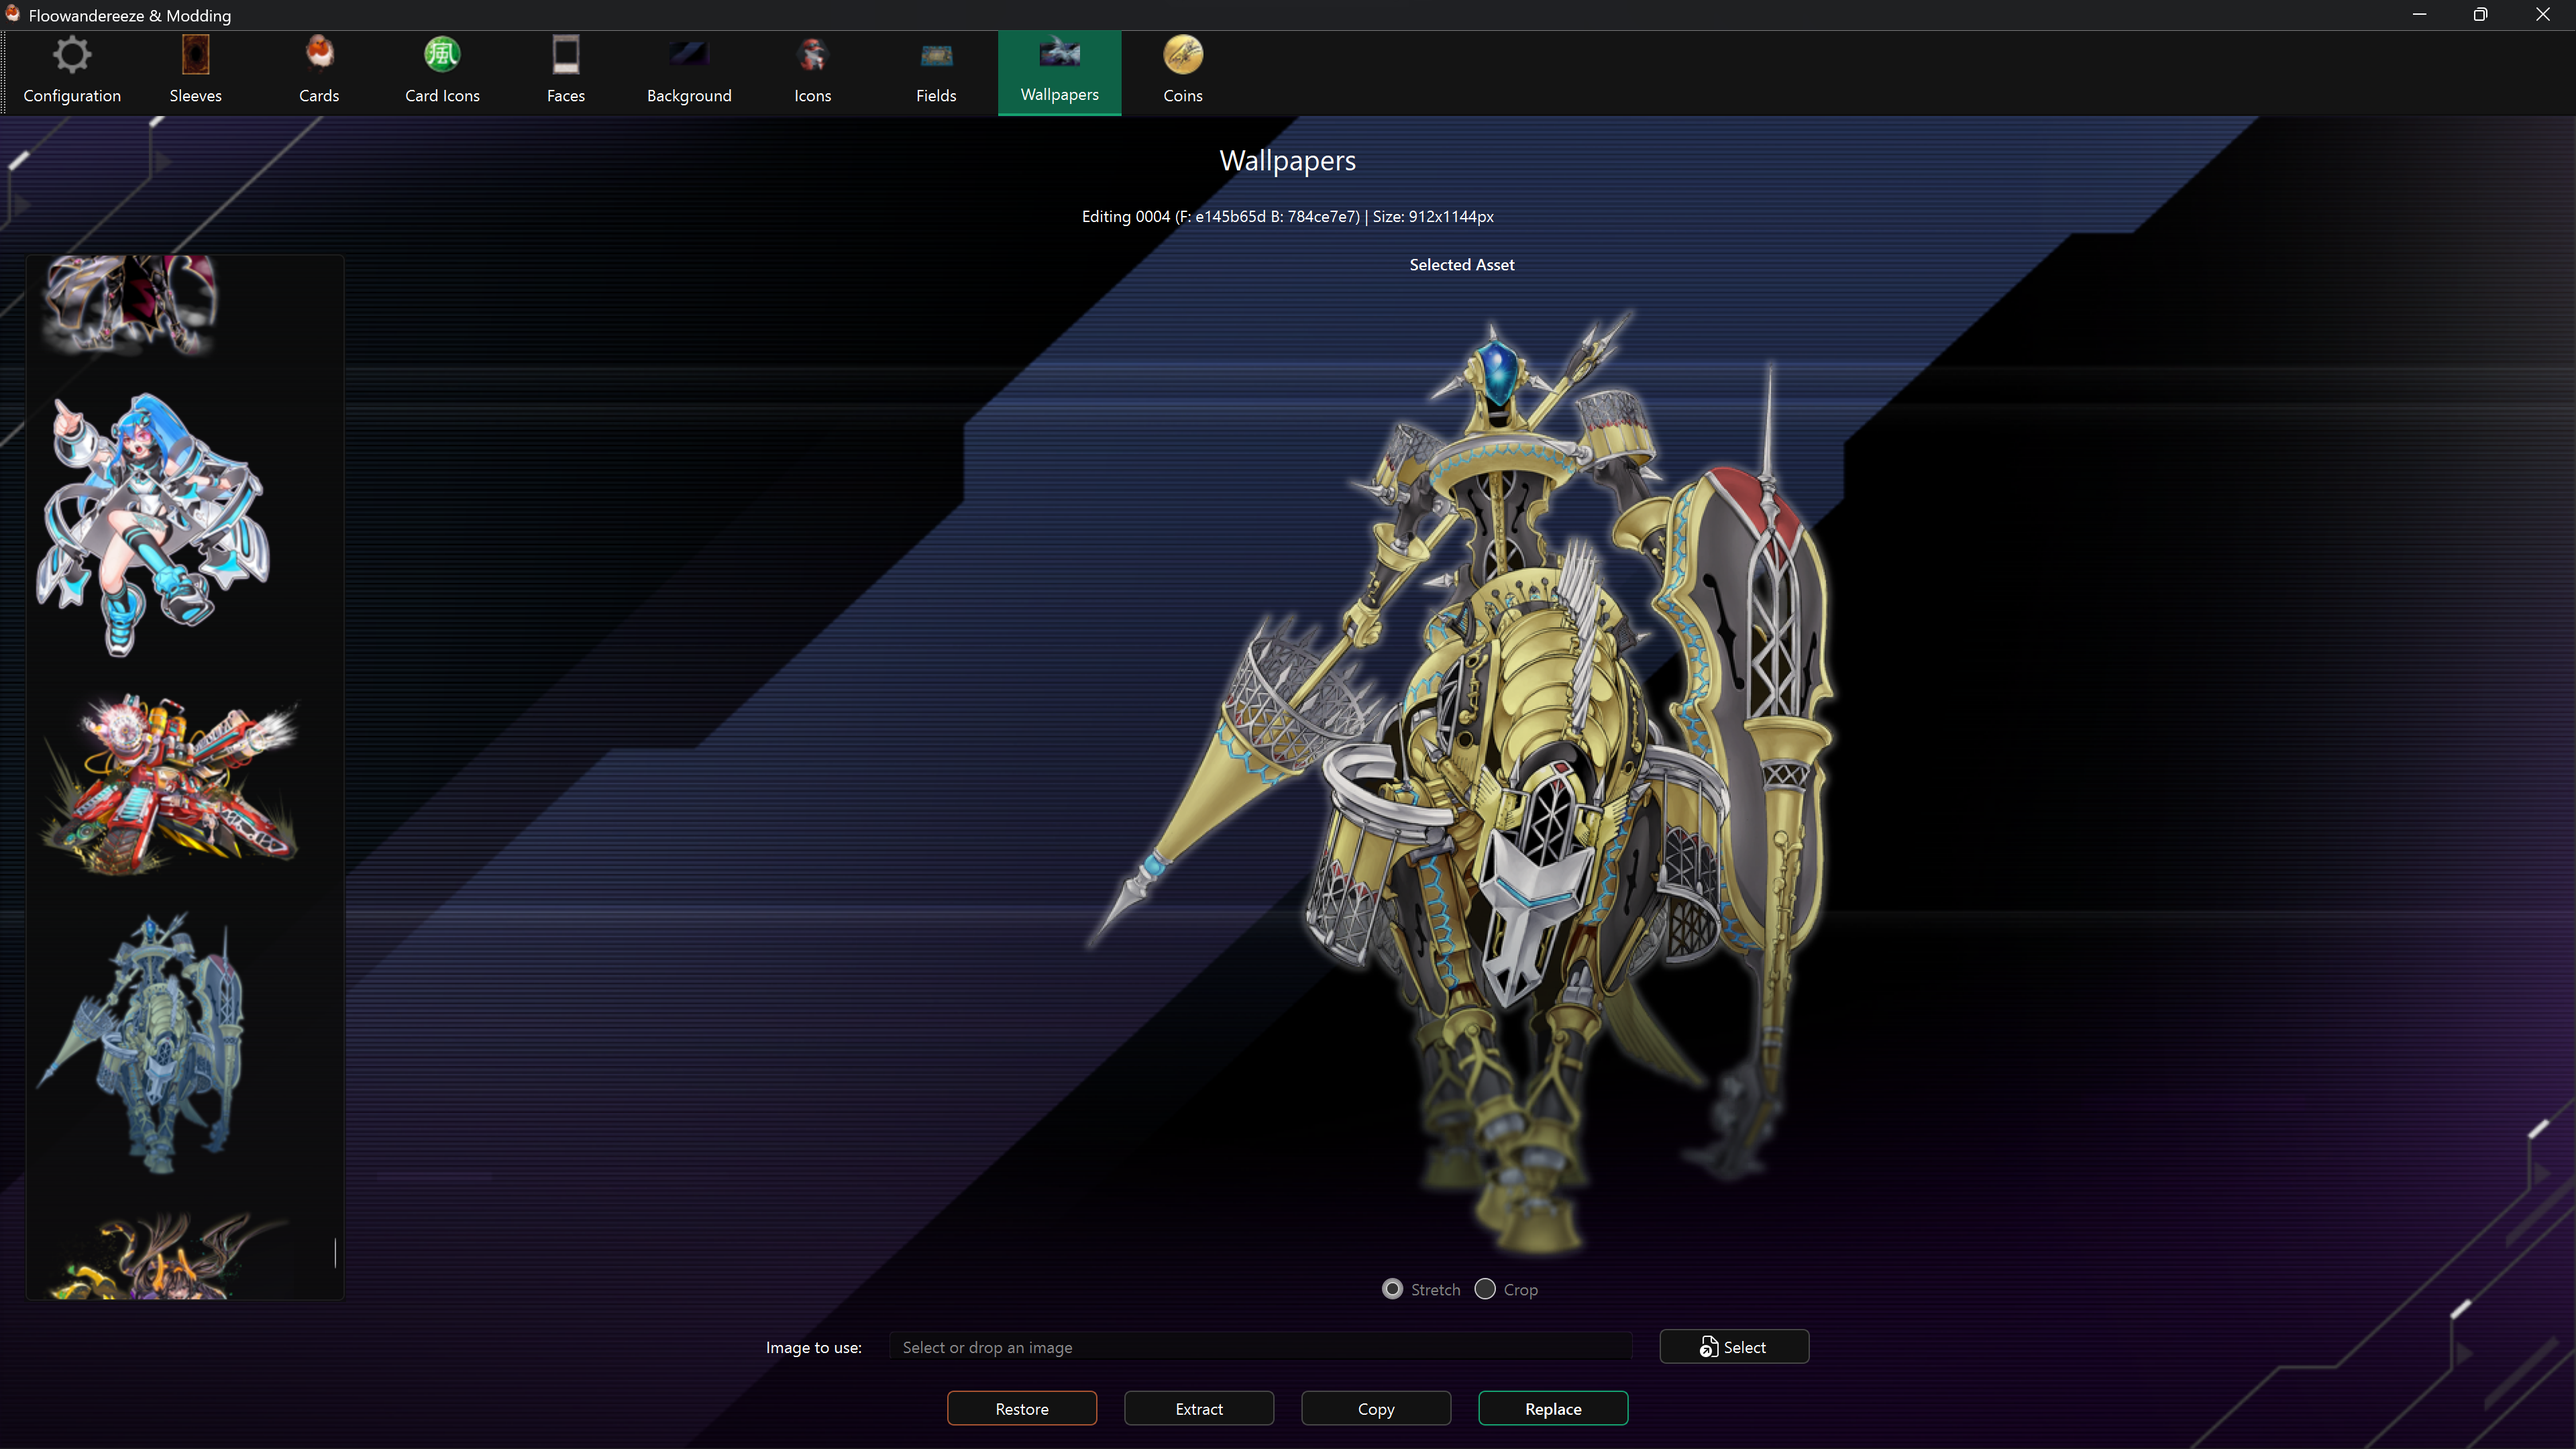
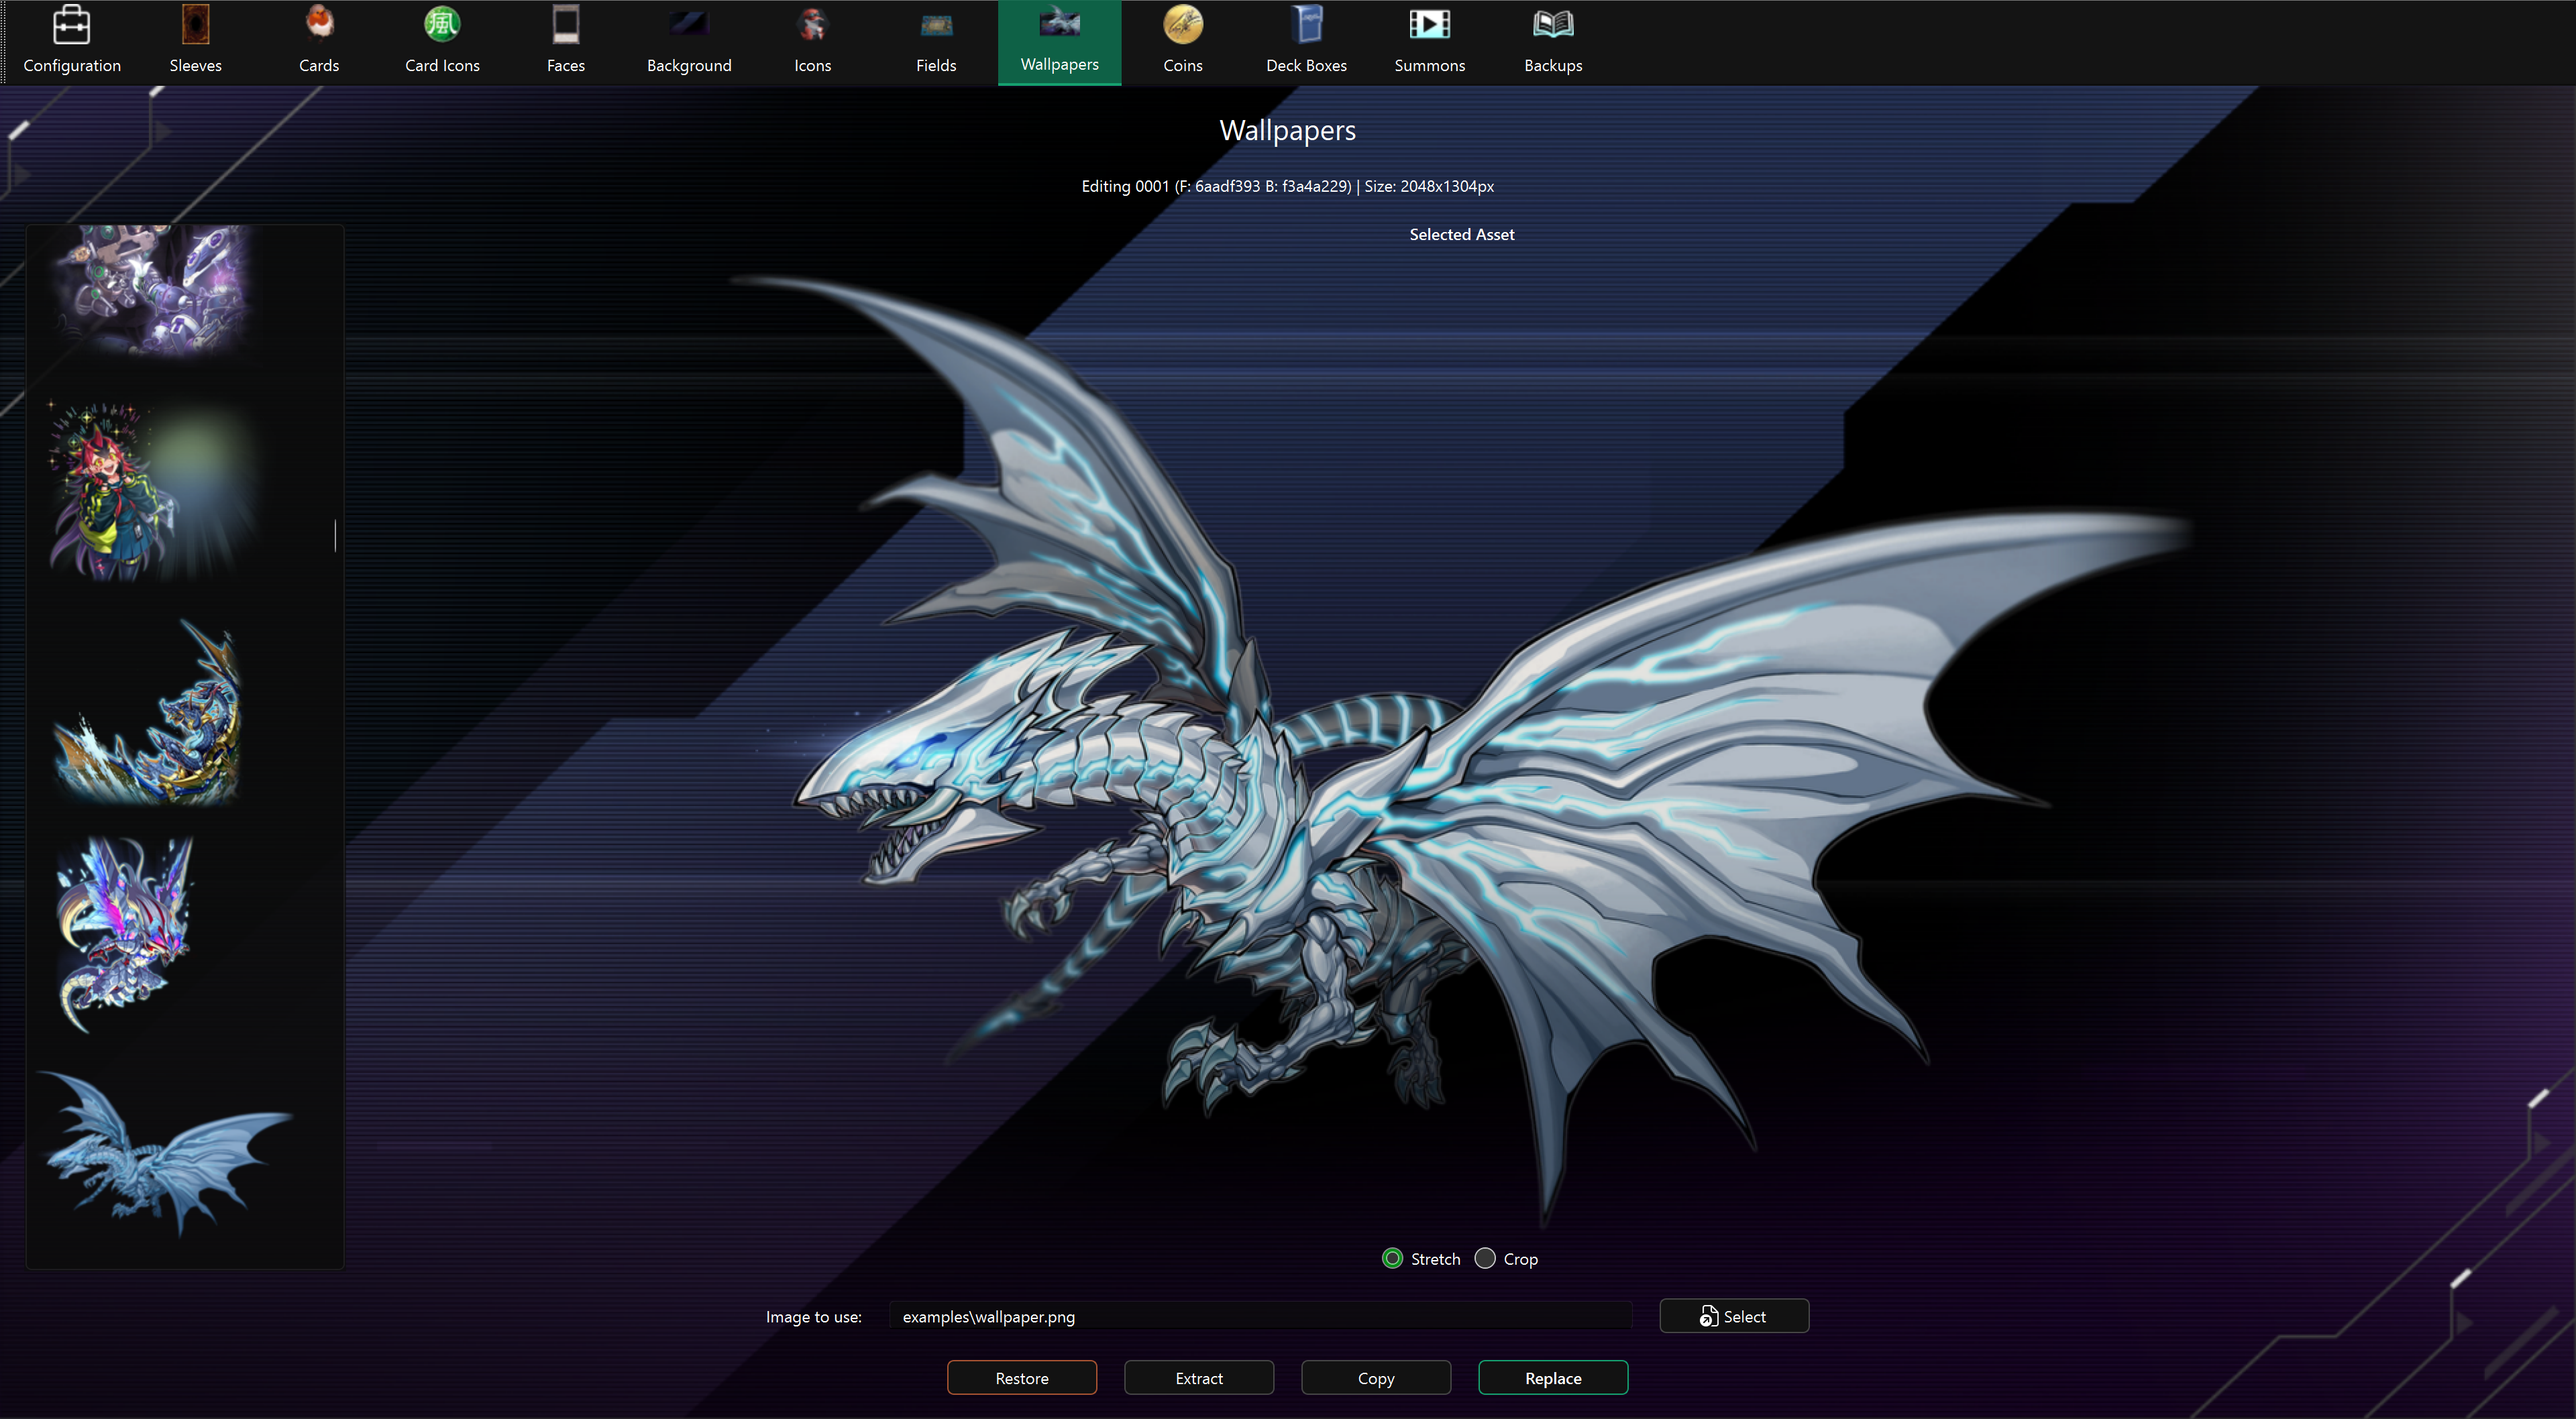
fix(wallpaper): preserve selector width beside large previews

diff --git a/pages/wallpaper.py b/pages/wallpaper.py
@@ -30,6 +30,7 @@ class Wallpaper(QtWidgets.QWidget, Ui_Wallpaper):
             QPixmap.fromImage(QImage(":ui/images/wallpaper_preview.png"))
         )
         self.main_content.addWidget(self.preview)
+        self._configure_asset_layout()
         configure_editor_chrome(
             self,
             current_widget=self.preview,
@@ -54,6 +55,20 @@ class Wallpaper(QtWidgets.QWidget, Ui_Wallpaper):
         self.setAcceptDrops(True)
 
         self._connect_callbacks()
+
+    def _configure_asset_layout(self):
+        """Keep the selector readable when large artwork changes the preview hint."""
+        self.wallpaperView.setFixedWidth(240)
+        self.wallpaperView.setIconSize(QSize(208, 150))
+        self.wallpaperView.setGridSize(QSize(224, 166))
+        self.wallpaperView.setFlow(QtWidgets.QListView.Flow.TopToBottom)
+        self.wallpaperView.setWrapping(False)
+        self.preview.setSizePolicy(
+            QtWidgets.QSizePolicy.Policy.Ignored,
+            QtWidgets.QSizePolicy.Policy.Expanding,
+        )
+        self.main_content.setStretch(0, 0)
+        self.main_content.setStretch(1, 1)
 
     def dragEnterEvent(self, event: QDragEnterEvent) -> None:
         """Accepts drag and drop of image files."""

diff --git a/docs/features/wallpaper.md b/docs/features/wallpaper.md
@@ -4,6 +4,8 @@ The Wallpaper Editor changes home-screen wallpaper assets, which use separate fo
 
 ![Wallpaper Editor](../assets/ui/wallpaper.png)
 
+The scrollable wallpaper selector stays 240 logical pixels wide on the left, with complete thumbnails. The selected artwork uses the remaining width without squeezing the list, including when the window is maximized.
+
 ## Replace a wallpaper
 
 1. Select a wallpaper from the list.
